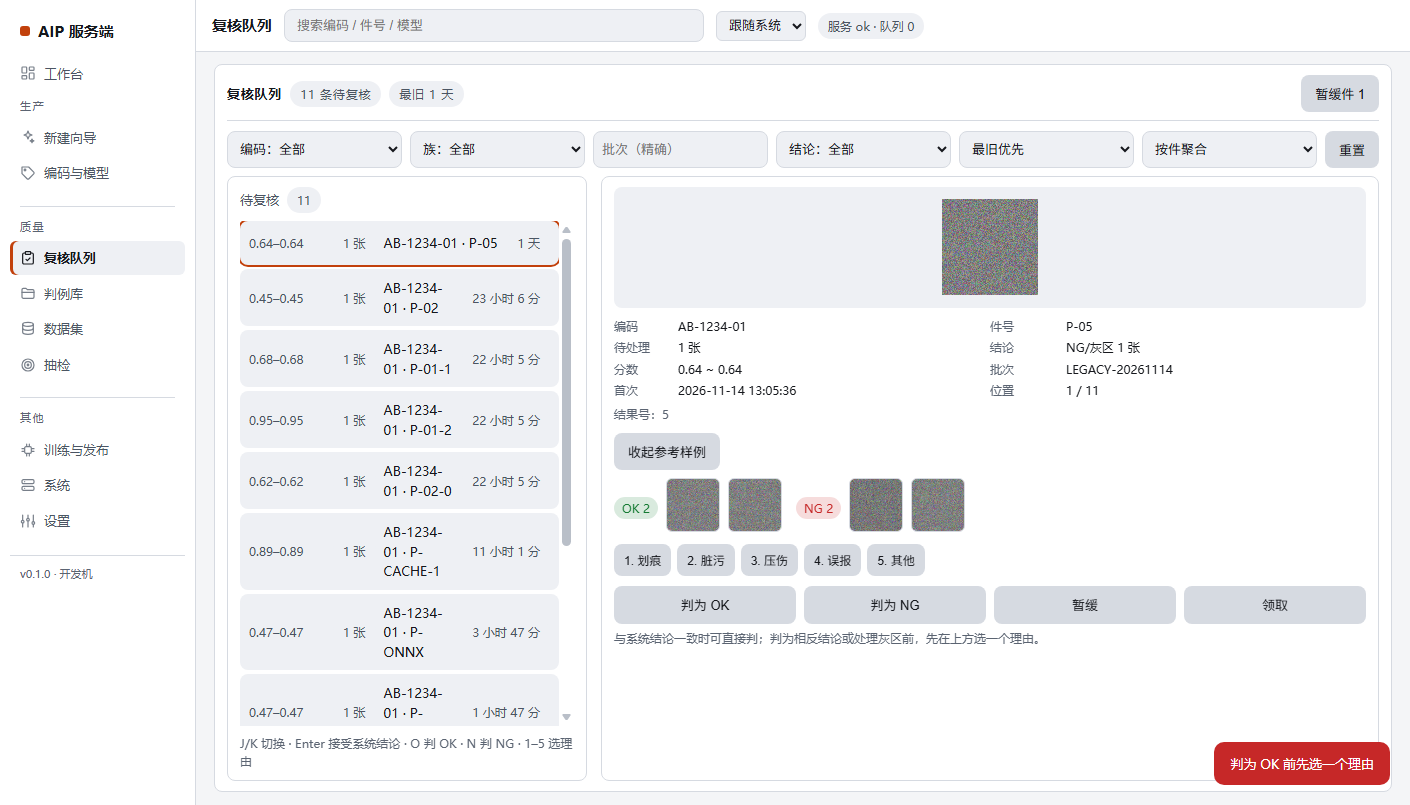
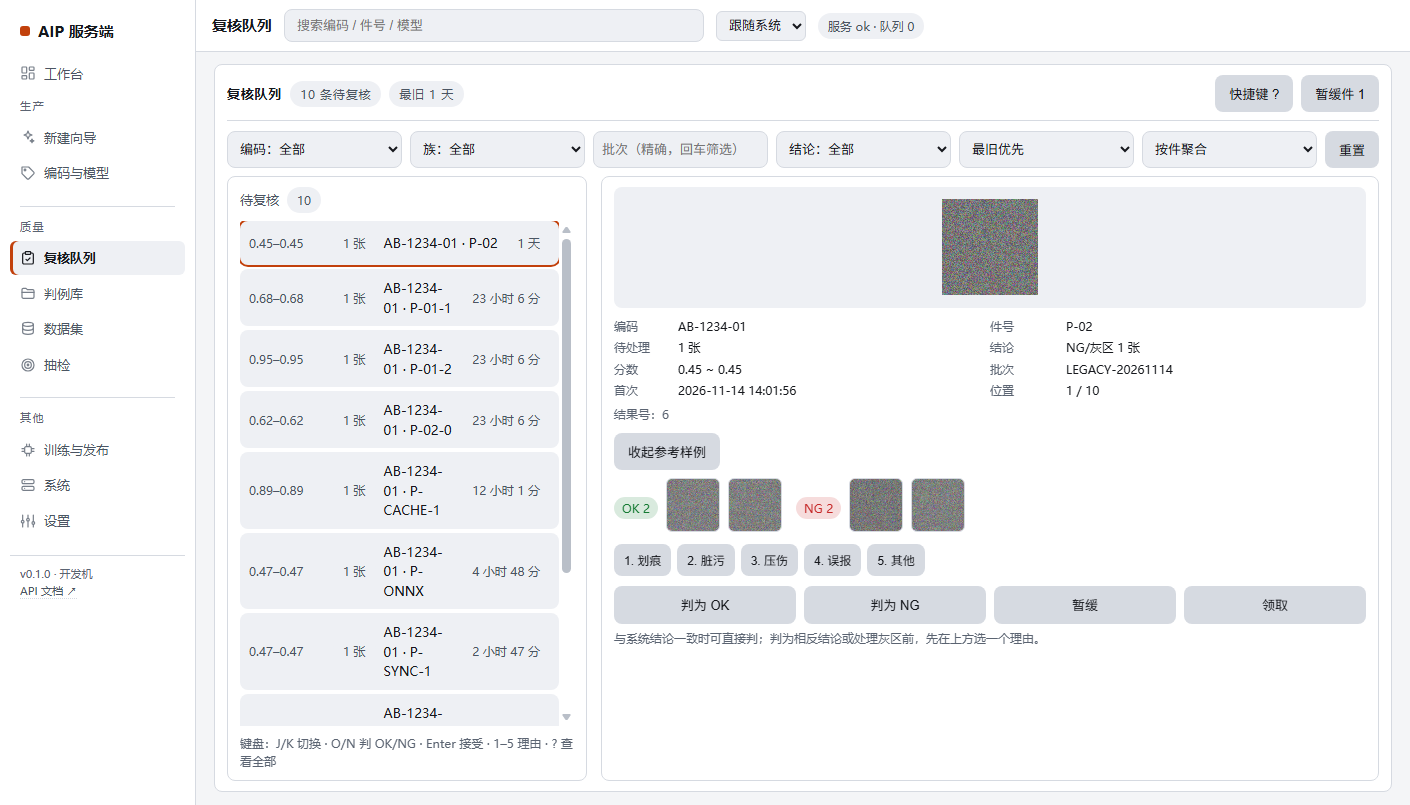
feat: 交互可发现性审计（复核快捷键帮助、盲判提示、搜索/回车提示、可点行键盘、Esc 提示）

diff --git a/aip/web/admin.html b/aip/web/admin.html
@@ -5,6 +5,21 @@
 <meta name="color-scheme" content="light dark">
 <meta name="viewport" content="width=device-width, initial-scale=1">
 <title>AIP 服务端</title>
+<dialog id="keysDlg" style="width:min(520px,92vw)">
+  <h2 style="margin-bottom:10px">复核页键盘快捷键</h2>
+  <table><caption class="sr-only">快捷键</caption>
+    <thead><tr><th scope="col">按键</th><th scope="col">作用</th></tr></thead>
+    <tbody>
+      <tr><td><kbd>J</kbd> / <kbd>K</kbd></td><td>下一件 / 上一件</td></tr>
+      <tr><td><kbd>O</kbd> / <kbd>N</kbd></td><td>判为 OK / 判为 NG（相反结论需先选理由）</td></tr>
+      <tr><td><kbd>Enter</kbd></td><td>接受系统结论（灰区会提示先明确判定）</td></tr>
+      <tr><td><kbd>1</kbd>–<kbd>5</kbd></td><td>选择理由：划痕/脏污/压伤/误报/其他</td></tr>
+      <tr><td><kbd>?</kbd></td><td>打开本说明</td></tr>
+      <tr><td><kbd>Esc</kbd></td><td>关闭弹窗</td></tr>
+    </tbody></table>
+  <div class="row" style="margin-top:14px"><button class="ghost" onclick="this.closest('dialog').close()">关闭</button></div>
+</dialog>
+
 <dialog id="refDlg" style="width:min(920px,94vw)">
   <h2 style="margin-bottom:12px">参考样例 <span class="muted">（历史判例，可能影响判断）</span></h2>
   <div id="refDlgBody"></div>
@@ -268,6 +283,7 @@
   .row button{flex:1}
   dialog{background:var(--g1);color:var(--t1);border:1px solid var(--g3);border-radius:12px;padding:20px;width:min(520px,92vw)}
   dialog::backdrop{background:rgba(0,0,0,.5)}
+  dialog::after{content:"Esc 关闭";display:block;text-align:right;margin-top:10px;font-size:11px;color:var(--t3)}
   dialog label{display:block;font-size:12px;color:var(--t3);margin:10px 0 4px}
   dialog input,dialog select{width:100%;background:var(--g2);border:1px solid var(--g3);color:var(--t1);border-radius:8px;padding:9px 10px;font-size:13px}
   #toasts{position:fixed;right:20px;bottom:20px;display:flex;flex-direction:column;gap:8px;z-index:99}
@@ -814,7 +830,7 @@ async function renderCatalog() {
         <thead><tr><th scope="col">编码</th><th scope="col">族 / 零件</th><th scope="col">状态</th><th scope="col">当前模型</th><th scope="col">阶段</th><th scope="col">操作</th></tr></thead>
         <tbody>${codes.map(c => {
           const b = byCode[c.code];
-          return `<tr data-code="${esc(c.code)}">
+          return `<tr data-code="${esc(c.code)}" tabindex="0" title="点击或回车查看编码详情">
             <td>${esc(c.code)}</td>
             <td>${esc(c.family || "-")} / ${esc(c.part || "-")}</td>
             <td>${c.active ? "启用" : '<span class="tag disabled">停用</span>'}</td>
@@ -878,6 +894,9 @@ async function renderCatalog() {
     </section>`;
 
   document.querySelectorAll("tr[data-code]").forEach(tr => {
+    tr.addEventListener("keydown", (e) => {
+      if (e.key === "Enter") { e.preventDefault(); tr.click(); }
+    });
     tr.onclick = () => { location.hash = "#/code/" + encodeURIComponent(tr.dataset.code); };
   });
   $("btnArchived").onclick = () => { showArchived = !showArchived; renderCatalog(); };
@@ -1081,7 +1100,7 @@ async function renderQuality() {
       <select id="fq_family" aria-label="族"><option value="">族：全部</option>
         ${families.map(f => `<option value="${esc(f.name)}" ${reviewState.family === f.name ? "selected" : ""}>${esc(f.name)}</option>`).join("")}
       </select>
-      <input id="fq_batch" value="${esc(reviewState.batch)}" placeholder="批次（精确）" aria-label="批次">
+      <input id="fq_batch" value="${esc(reviewState.batch)}" placeholder="批次（精确，回车筛选）" aria-label="批次">
       <select id="fq_label" aria-label="结论">
         <option value="">结论：全部</option>
         <option value="ng" ${reviewState.label === "ng" ? "selected" : ""}>仅 NG</option>
@@ -1107,9 +1126,12 @@ async function renderQuality() {
     <section class="review-page">
       <h2>复核队列 <span class="pill">${q.summary.total} 条待复核</span>
         <span class="pill">最旧 ${ageText(q.summary.oldest_at)}</span>
-        ${q.summary.skipped_count > 0
-          ? `<span style="margin-left:auto"><button class="ghost" id="btnSkipped">暂缓件 ${q.summary.skipped_count}</button></span>`
-          : ""}</h2>
+        <span style="margin-left:auto;display:flex;gap:8px">
+          <button class="ghost" id="btnKeys" title="键盘快捷键">快捷键 ?</button>
+          ${q.summary.skipped_count > 0
+            ? `<button class="ghost" id="btnSkipped">暂缓件 ${q.summary.skipped_count}</button>`
+            : ""}
+        </span></h2>
       ${toolbar}
       <div id="skippedWrap" hidden style="margin-bottom:12px">
         <table><caption class="sr-only">暂缓件</caption>
@@ -1122,7 +1144,7 @@ async function renderQuality() {
           <div class="review-list">
             <div class="review-list-head">待复核 <span class="pill">${items.length}</span></div>
             <div id="rlist" class="queue"></div>
-            <div class="muted review-hint">${isGroup ? "点击分组下钻到件" : "J/K 切换 · Enter 接受 · O 判 OK · N 判 NG · 1–5 理由"}</div>
+            <div class="muted review-hint">${isGroup ? "点击分组下钻到件" : "键盘：J/K 切换 · O/N 判 OK/NG · Enter 接受 · 1–5 理由"}</div>
           </div>
           <div class="review-detail">
             <div class="shot"><img id="shot" alt="裁片"></div>
@@ -1332,6 +1354,7 @@ async function renderQuality() {
       toast("已暂缓");
       removeCurrent();
     };
+    $("btnKeys").onclick = () => $("keysDlg").showModal();
     $("rOk").onclick = () => judge("ok");
     $("rNg").onclick = () => judge("ng");
 
@@ -1349,6 +1372,7 @@ async function renderQuality() {
       else if (ev.key === "o" || ev.key === "O") { $("rOk").click(); }
       else if (ev.key === "n" || ev.key === "N") { $("rNg").click(); }
       else if (/^[1-5]$/.test(ev.key)) { reason = REASONS[Number(ev.key) - 1]; paint(); }
+      else if (ev.key === "?" || (ev.key === "/" && ev.shiftKey)) { $("btnKeys").click(); }
     };
 
     if ($("btnSkipped")) {
@@ -1918,9 +1942,9 @@ async function renderCases() {
             <option value="import" ${caseState.source === "import" ? "selected" : ""}>导入</option>
           </select></div>
         <div><label for="cq_part">件号</label>
-          <input id="cq_part" value="${esc(caseState.partNo || "")}" placeholder="精确件号"></div>
+          <input id="cq_part" value="${esc(caseState.partNo || "")}" placeholder="精确件号，回车筛选"></div>
         <div><label for="cq_batch">批次</label>
-          <input id="cq_batch" value="${esc(caseState.batchNo || "")}" placeholder="精确批次号"></div>
+          <input id="cq_batch" value="${esc(caseState.batchNo || "")}" placeholder="精确批次号，回车筛选"></div>
         <div><label for="cq_arch">归档</label>
           <select id="cq_arch">
             <option value="" ${!caseState.showArchived ? "selected" : ""}>不含已归档</option>
@@ -2057,7 +2081,7 @@ async function renderDatasets() {
         数据集是训练集快照：一个族、一个模型、一组判例。冻结后成员不可改，校验和保证训练可复现。
       </p>
       <div class="filterbar">
-        <input id="ds_q" value="${esc(datasetState.q)}" placeholder="搜索名称" style="max-width:200px">
+        <input id="ds_q" value="${esc(datasetState.q)}" placeholder="搜索名称，回车筛选" style="max-width:200px">
         <select id="ds_family" style="max-width:160px">
           <option value="">全部族</option>
           ${families.map(f => `<option value="${esc(f)}" ${datasetState.family === f ? "selected" : ""}>${esc(f)}</option>`).join("")}
@@ -2190,7 +2214,7 @@ async function renderBlind() {
         盲判：抽样时不显示系统结论，判完才揭盲。关批需质量 / 产线 / 技术三方签字。
       </p>
       <div class="filterbar">
-        <input id="bl_q" value="${esc(blindState.q)}" placeholder="搜索周次，如 2026-W46" style="max-width:220px">
+        <input id="bl_q" value="${esc(blindState.q)}" placeholder="搜索周次，回车筛选" style="max-width:220px">
         <select id="bl_status" style="max-width:160px">
           <option value="">全部状态</option>
           <option value="open" ${blindState.status === "open" ? "selected" : ""}>进行中</option>
@@ -2289,7 +2313,8 @@ async function renderBlindBatch(id) {
             <button class="act" id="jOk">OK</button>
             <button class="ghost" id="jGray">灰区</button>
             <button class="ghost" id="jNg">NG</button>
-          </div>` : `
+          </div>
+          <div class="muted review-tip">快捷键：O 判 OK · G 灰区 · N 判 NG</div>` : `
           <div class="empty">全部判完，可以关批（需三方签字）。</div>
           <div class="form" style="grid-template-columns:1fr 1fr 1fr;margin-top:12px">
             <div><label for="signQ">质量签字</label><input id="signQ" placeholder="姓名"></div>
@@ -2440,7 +2465,7 @@ async function renderTraining() {
     <section>
       <h2>模型与版本 <span class="pill">${shownModels.length} / ${models.length} 个模型</span>
         <span style="margin-left:auto;display:flex;gap:8px">
-          <input id="tr_q" value="${esc(trainingState.q)}" placeholder="搜索模型编码/名称" style="max-width:220px">
+          <input id="tr_q" value="${esc(trainingState.q)}" placeholder="搜索模型编码/名称，回车筛选" style="max-width:220px">
           <select id="tr_family" style="max-width:180px">
             <option value="">全部族</option>
             ${families.map(f => `<option value="${esc(f)}" ${trainingState.family === f ? "selected" : ""}>${esc(f)}</option>`).join("")}
@@ -2689,6 +2714,7 @@ function renderSearch(results) {
       </div>`);
     }
   }
+  if (html.length) html.push('<div class="search-group" role="presentation" style="border-top:1px solid var(--g3);margin-top:4px">↑↓ 选择 · Enter 打开 · Esc 关闭</div>');
   drop.innerHTML = html.length ? html.join("") : '<div class="search-group" role="presentation">没有匹配</div>';
   drop.hidden = false;
   $("jump").setAttribute("aria-expanded", "true");
